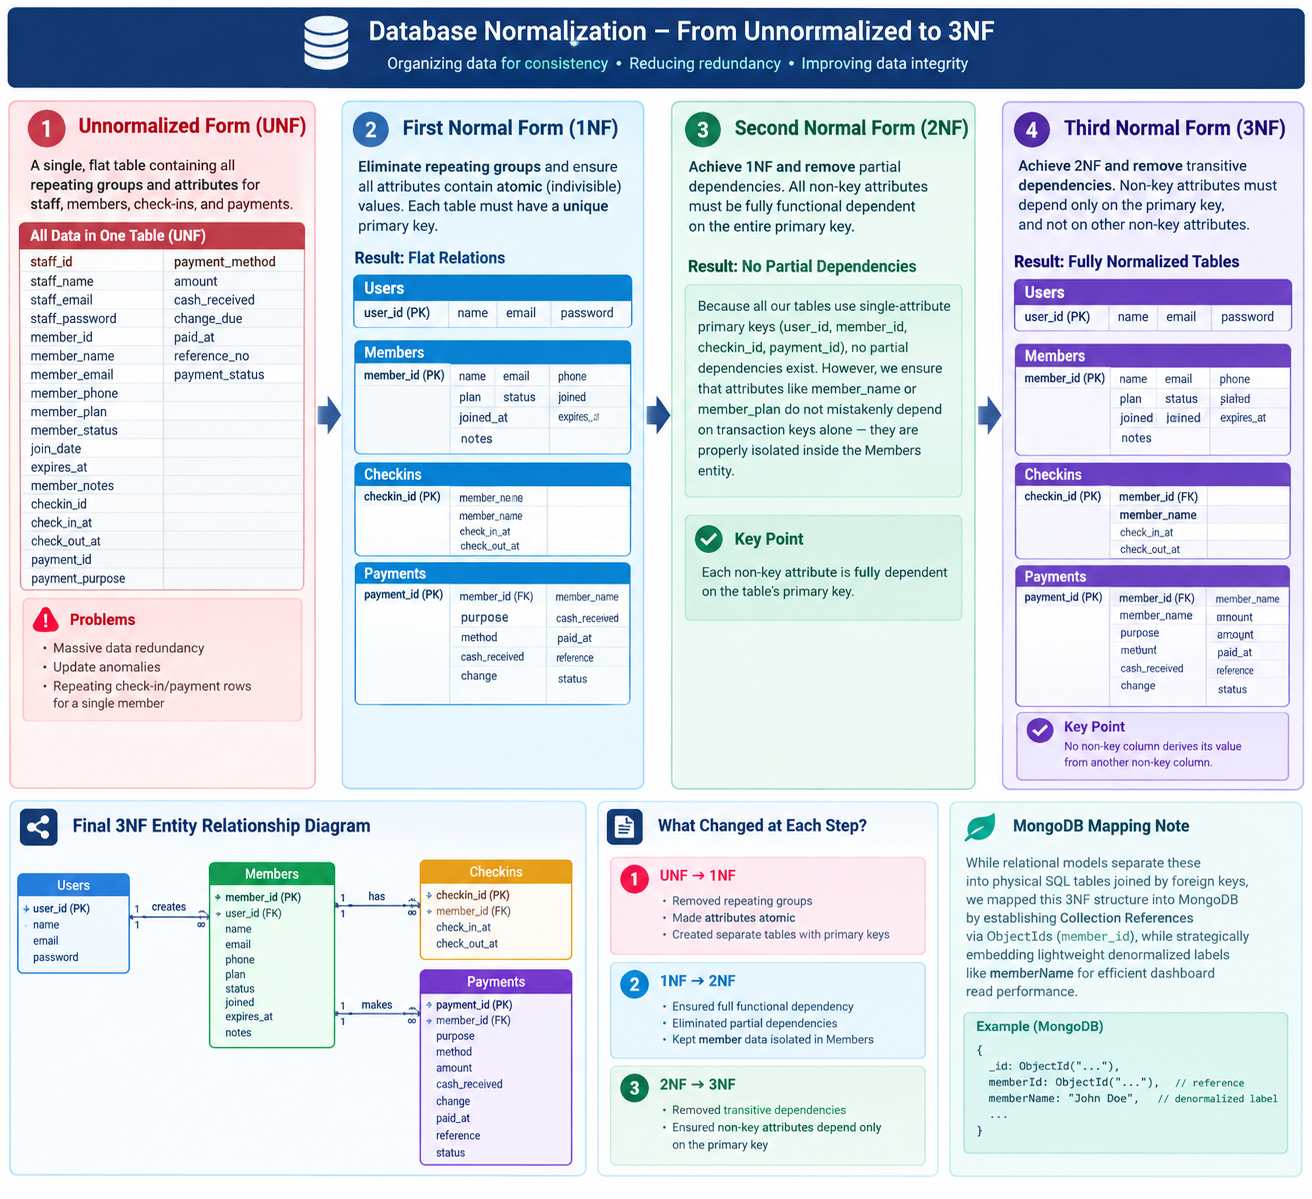
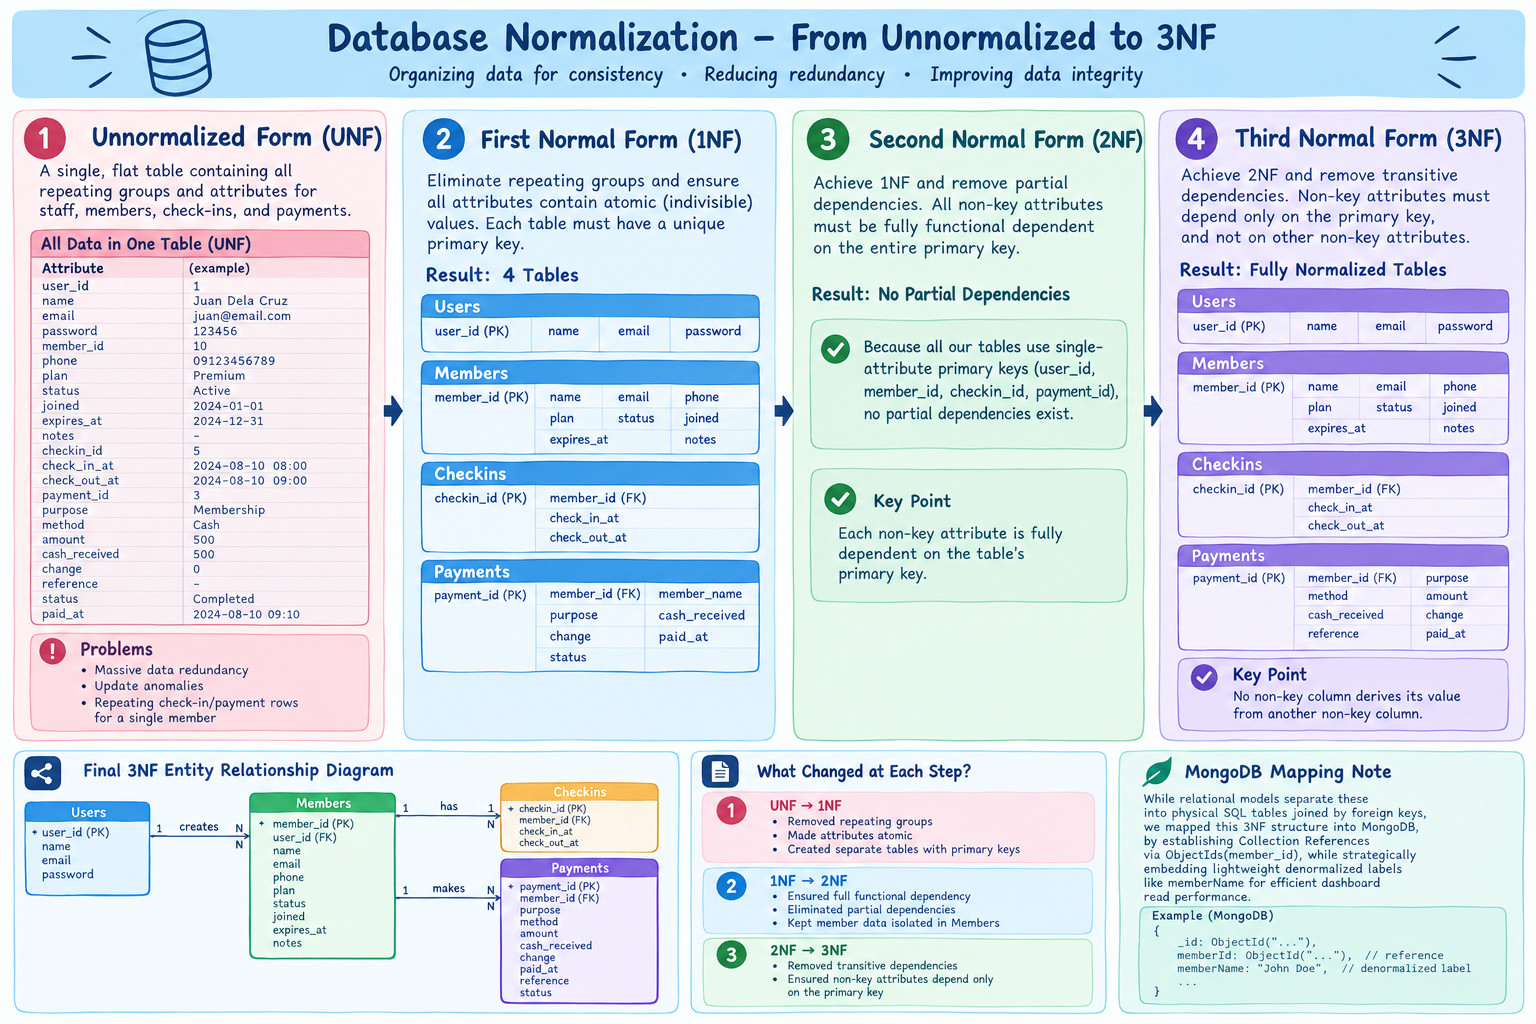
ahuhu

diff --git a/frontend/style.css b/frontend/style.css
@@ -835,7 +835,8 @@ body.dashboard .metric {
   padding: 22px;
   display: flex;
   flex-direction: column;
-  gap: 14px;
+  justify-content: space-between; /* Ensures inner content distributes evenly */
+  height: 100%;                   /* Forces all cards in the grid to match the tallest card's height */
   min-width: 0;
 }
 
